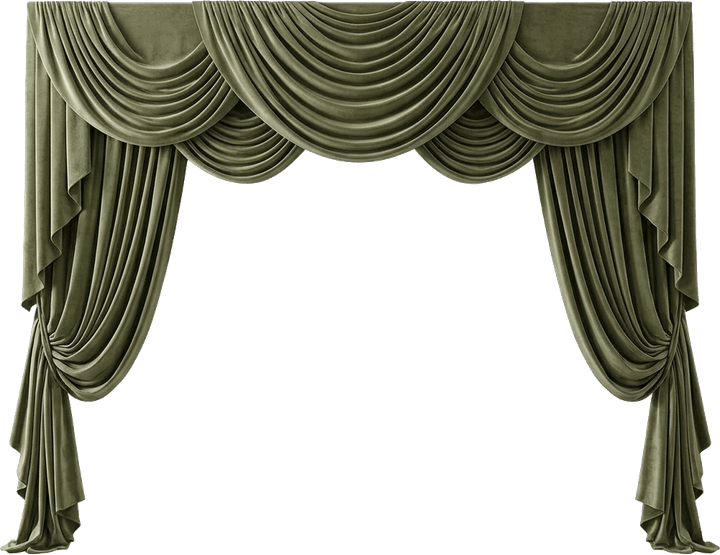
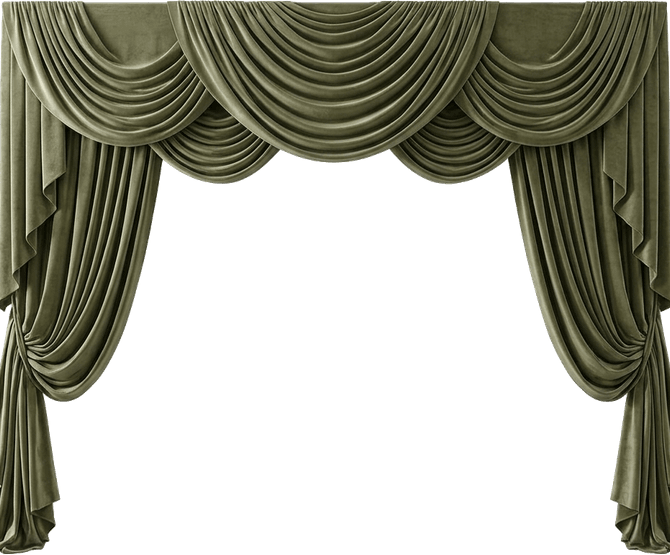
feat: add wedding invitation HTML structure and asset files

diff --git a/src/app/invitation.html b/src/app/invitation.html
@@ -1702,79 +1702,88 @@
 
     <!-- Moodboard Bottom-Right Stage Container -->
     <div
-      class="max-w-4xl mx-auto relative rounded-[28px] overflow-hidden border-2 border-[#D8C37B] shadow-arch bg-[#F7EEE8] px-6 sm:px-12 pt-20 pb-28 sm:pb-36">
+      class="max-w-4xl mx-auto relative rounded-[28px] overflow-hidden border-2 border-[#D8C37B] shadow-2xl bg-[#F7EEE8] px-4 sm:px-10 pt-24 sm:pt-28 pb-36 sm:pb-44">
 
       <!-- Dusty-Pink Silk Curtain Background (Matching Moodboard Bottom-Right Stage) -->
       <div class="pointer-events-none absolute inset-0 z-0" aria-hidden="true">
         <img src="/assets/wedding/drapery/pink-curtain-background.png" alt=""
-          class="w-full h-full object-cover object-center opacity-75 select-none" />
-        <div class="absolute inset-0 bg-gradient-to-b from-[#F7EEE8]/30 via-[#F7EEE8]/70 to-[#F7EEE8]/90"></div>
+          class="w-full h-full object-cover object-center opacity-80 select-none" />
+        <div class="absolute inset-0 bg-gradient-to-b from-[#F7EEE8]/35 via-[#F7EEE8]/65 to-[#F7EEE8]/90"></div>
+        <div class="absolute inset-0 bg-[radial-gradient(ellipse_at_50%_45%,rgba(255,255,255,0.5)_0%,transparent_65%)]"></div>
       </div>
 
-      <!-- Sage-Green Draped Velvet Curtains (Top Valance) -->
-      <img src="/assets/wedding/drapery/sage-curtain-top.png" alt="" aria-hidden="true"
-        class="pointer-events-none absolute top-0 left-0 right-0 w-full h-20 sm:h-28 object-cover object-top z-10 drop-shadow-md select-none" />
+      <!-- Sage-Green Draped Velvet Curtains (Top Valance & Pelmet Canopy) -->
+      <div class="pointer-events-none absolute top-0 -left-1 -right-1 z-10 overflow-hidden" aria-hidden="true">
+        <img src="/assets/wedding/drapery/sage-curtain-top.png" alt=""
+          class="w-full h-28 sm:h-36 md:h-44 object-cover object-top drop-shadow-xl select-none" />
+      </div>
 
       <!-- Floating Petals in Closing Scene -->
       <div class="pointer-events-none absolute inset-0 z-15 overflow-hidden" aria-hidden="true">
         <span
-          class="floating-petal absolute top-16 left-[18%] w-3.5 h-4 rounded-tl-full rounded-br-full bg-[#E7B8C4]/85"></span>
+          class="floating-petal absolute top-20 left-[15%] w-3.5 h-4 rounded-tl-full rounded-br-full bg-[#E7B8C4]/85"></span>
         <span
-          class="floating-petal-slow absolute top-24 right-[18%] w-4 h-3 rounded-tr-full rounded-bl-full bg-[#C98AA3]/75"></span>
+          class="floating-petal-slow absolute top-32 right-[18%] w-4 h-3 rounded-tr-full rounded-bl-full bg-[#C98AA3]/75"></span>
         <span
           class="floating-petal-alt absolute top-1/2 left-[12%] w-3 h-3.5 rounded-tl-full rounded-br-full bg-[#E7B8C4]/75"></span>
+        <span
+          class="floating-petal absolute bottom-36 right-[14%] w-3.5 h-3 rounded-tr-full rounded-bl-full bg-[#C98AA3]/70"></span>
       </div>
 
       <!-- Center Closing Stationery Card -->
-      <div class="relative z-20 max-w-lg mx-auto">
+      <div class="relative z-20 max-w-[420px] sm:max-w-[440px] mx-auto">
 
-        <!-- Large Pink Silk Bow & Peony Crown -->
+        <!-- Refined Pink Silk Bow & Peony Crown -->
         <div data-motion="fadeRise"
-          class="pointer-events-none relative -mb-10 z-30 flex flex-col items-center justify-center" aria-hidden="true">
-          <img src="/assets/wedding/ribbons/silk-bow-large.png" alt=""
-            class="w-32 sm:w-36 h-auto drop-shadow-md select-none" />
+          class="pointer-events-none relative -mb-6 sm:-mb-7 z-30 flex flex-col items-center justify-center" aria-hidden="true">
+          <img src="/assets/wedding/ribbons/silk-bow-small.png" alt=""
+            class="w-24 sm:w-28 h-auto drop-shadow-md select-none" />
           <img src="/assets/wedding/flowers/peony-large-top.png" alt=""
-            class="w-20 sm:w-24 -mt-24 sm:-mt-28 drop-shadow-sm select-none" />
+            class="w-14 sm:w-16 -mt-16 sm:-mt-18 drop-shadow-sm select-none" />
         </div>
 
         <div data-motion="fadeRise" style="--stagger-delay: 80ms;"
-          class="pink-paper-surface border-2 border-[#D8C37B] rounded-2xl px-6 sm:px-10 pt-14 pb-10 shadow-lg relative overflow-hidden">
-          <p class="font-eyebrow text-[10px] text-[#784653] tracking-[0.26em] mb-2">
+          class="pink-paper-surface border-2 border-[#D8C37B] rounded-2xl px-6 sm:px-10 pt-10 sm:pt-12 pb-10 sm:pb-12 shadow-xl relative overflow-hidden">
+          
+          <!-- Inner Delicate Gold Frame Accent -->
+          <div class="pointer-events-none absolute inset-2.5 rounded-xl border border-[#D8C37B]/45 border-dashed" aria-hidden="true"></div>
+
+          <p class="font-eyebrow text-[10px] text-[#784653] tracking-[0.28em] uppercase mb-1">
             SCENE 11 • WITH LOVE &amp; GRATITUDE
           </p>
 
           <!-- "Same love, new chapter." (Exact Moodboard Quote Card Typography) -->
-          <p class="font-script text-4xl sm:text-5xl text-[#784653] leading-tight my-3">
+          <p class="font-script text-3xl sm:text-[38px] text-[#784653] leading-snug my-2">
             Same love, new chapter.
           </p>
 
           <!-- Tiny Heart Divider from Moodboard Quote Card -->
-          <div class="my-4 flex items-center justify-center gap-3" aria-hidden="true">
-            <span class="h-[1px] w-14 bg-[#784653]/35"></span>
+          <div class="my-3 sm:my-4 flex items-center justify-center gap-3" aria-hidden="true">
+            <span class="h-[1px] w-12 bg-[#784653]/35"></span>
             <svg class="w-3.5 h-3.5 text-[#784653]" viewBox="0 0 24 24" fill="currentColor">
               <path
                 d="M12 21.35l-1.45-1.32C5.4 15.36 2 12.28 2 8.5 2 5.42 4.42 3 7.5 3c1.74 0 3.41.81 4.5 2.09C13.09 3.81 14.76 3 16.5 3 19.58 3 22 5.42 22 8.5c0 3.78-3.4 6.86-8.55 11.54L12 21.35z" />
             </svg>
-            <span class="h-[1px] w-14 bg-[#784653]/35"></span>
+            <span class="h-[1px] w-12 bg-[#784653]/35"></span>
           </div>
 
-          <h2 class="font-display text-2xl sm:text-3xl text-[#784653] font-normal tracking-[0.16em] uppercase mt-2">
+          <h2 class="font-display text-2xl sm:text-3xl text-[#784653] font-normal tracking-[0.18em] uppercase mt-1">
             Zahra &amp; Fachri
           </h2>
 
-          <p class="text-xs sm:text-sm text-[#493237]/90 leading-relaxed font-serif mt-3 max-w-sm mx-auto">
+          <p class="text-xs sm:text-sm text-[#493237]/90 leading-relaxed font-serif italic mt-2.5 max-w-xs mx-auto">
             Thank you for being part of our special day.
           </p>
 
-          <p class="font-sans text-[11px] uppercase tracking-[0.24em] text-[#9A7078] mt-4 font-medium">
+          <p class="font-sans text-[10px] sm:text-[11px] uppercase tracking-[0.24em] text-[#9A7078] mt-3.5 font-medium">
             14 . 06 . 2025 • JAKARTA
           </p>
 
           <!-- Back to Top Button -->
-          <div class="mt-6">
+          <div class="mt-6 sm:mt-7 relative z-10">
             <a href="#opening"
-              class="inline-flex items-center gap-2 min-h-[44px] px-5 py-2 rounded-full bg-[#FFF9F5]/90 hover:bg-[#FFF9F5] border border-[#D8C37B] text-[#784653] text-[11px] uppercase tracking-[0.18em] font-medium transition-all shadow-sm">
-              <svg class="w-3.5 h-3.5" viewBox="0 0 24 24" fill="none" stroke="currentColor" stroke-width="2"
+              class="inline-flex items-center gap-2 min-h-[44px] px-6 py-2.5 rounded-full bg-[#FFF9F5]/95 hover:bg-white border border-[#D8C37B] text-[#784653] text-[11px] uppercase tracking-[0.2em] font-medium transition-all shadow-sm hover:shadow-md hover:-translate-y-0.5 active:translate-y-0">
+              <svg class="w-3.5 h-3.5 text-[#784653]" viewBox="0 0 24 24" fill="none" stroke="currentColor" stroke-width="2"
                 aria-hidden="true">
                 <path stroke-linecap="round" stroke-linejoin="round" d="M5 10l7-7m0 0l7 7m-7-7v18" />
               </svg>
@@ -1785,13 +1794,47 @@
 
       </div>
 
-      <!-- Lush Bottom Garden of Peonies & Roses Across Stage Floor (Matching Moodboard Bottom-Right) -->
+      <!-- Antique Gold Taper Candles Flanking Stage Left & Right -->
+      <div class="pointer-events-none absolute bottom-5 sm:bottom-8 left-5 sm:left-12 z-15 flex items-end"
+        aria-hidden="true">
+        <svg class="w-8 sm:w-10 h-22 sm:h-28 overflow-visible drop-shadow-md" viewBox="0 0 60 140" fill="none">
+          <circle cx="20" cy="18" r="14" fill="#F7D794" opacity="0.45" />
+          <circle cx="42" cy="30" r="12" fill="#F7D794" opacity="0.4" />
+          <path class="candle-flame" d="M20 6 C16 14, 15 20, 20 24 C25 20, 24 14, 20 6 Z" fill="#FFF3B0" />
+          <path class="candle-flame-delayed" d="M42 18 C38 26, 37 32, 42 36 C47 32, 46 26, 42 18 Z"
+            fill="#FFF3B0" />
+          <rect x="17" y="24" width="6" height="56" rx="2" fill="#FFF9F5" stroke="#E7D8C9" stroke-width="0.8" />
+          <rect x="39" y="36" width="6" height="48" rx="2" fill="#FFF9F5" stroke="#E7D8C9" stroke-width="0.8" />
+          <path d="M13 80 H27 L23 86 H17 Z M20 86 V135 M12 135 H28" stroke="#D8C37B" stroke-width="2.5"
+            fill="#B89B4C" />
+          <path d="M35 84 H49 L45 90 H39 Z M42 90 V135 M34 135 H50" stroke="#D8C37B" stroke-width="2.5"
+            fill="#B89B4C" />
+        </svg>
+      </div>
+
+      <div class="pointer-events-none absolute bottom-5 sm:bottom-8 right-5 sm:right-12 z-15 flex items-end"
+        aria-hidden="true">
+        <svg class="w-8 sm:w-10 h-22 sm:h-28 overflow-visible drop-shadow-md" viewBox="0 0 60 140" fill="none">
+          <circle cx="40" cy="18" r="14" fill="#F7D794" opacity="0.45" />
+          <circle cx="18" cy="30" r="12" fill="#F7D794" opacity="0.4" />
+          <path class="candle-flame-delayed" d="M40 6 C36 14, 35 20, 40 24 C45 20, 44 14, 40 6 Z" fill="#FFF3B0" />
+          <path class="candle-flame" d="M18 18 C14 26, 13 32, 18 36 C23 32, 22 26, 18 18 Z" fill="#FFF3B0" />
+          <rect x="37" y="24" width="6" height="56" rx="2" fill="#FFF9F5" stroke="#E7D8C9" stroke-width="0.8" />
+          <rect x="15" y="36" width="6" height="48" rx="2" fill="#FFF9F5" stroke="#E7D8C9" stroke-width="0.8" />
+          <path d="M33 80 H47 L43 86 H37 Z M40 86 V135 M32 135 H48" stroke="#D8C37B" stroke-width="2.5"
+            fill="#B89B4C" />
+          <path d="M11 84 H25 L21 90 H15 Z M18 90 V135 M10 135 H26" stroke="#D8C37B" stroke-width="2.5"
+            fill="#B89B4C" />
+        </svg>
+      </div>
+
+      <!-- Lush Continuous Bottom Meadow Across Stage Floor (Matching Moodboard Bottom-Right) -->
       <img src="/assets/wedding/flowers/peony-corner-left.png" alt="" aria-hidden="true"
-        class="pointer-events-none absolute -bottom-6 -left-6 w-48 sm:w-64 z-25 drop-shadow-xl select-none" />
+        class="pointer-events-none absolute -bottom-6 -left-6 sm:-bottom-8 sm:-left-8 w-44 sm:w-60 md:w-68 z-25 drop-shadow-xl select-none" />
       <img src="/assets/wedding/flowers/pink-blossom-cluster.png" alt="" aria-hidden="true"
-        class="pointer-events-none absolute -bottom-8 left-1/2 -translate-x-1/2 w-72 sm:w-96 z-20 opacity-95 drop-shadow-lg select-none" />
+        class="pointer-events-none absolute -bottom-10 sm:-bottom-14 left-1/2 -translate-x-1/2 w-80 sm:w-[480px] md:w-[540px] z-20 opacity-95 drop-shadow-lg select-none" />
       <img src="/assets/wedding/flowers/peony-corner-right.png" alt="" aria-hidden="true"
-        class="pointer-events-none absolute -bottom-6 -right-6 w-48 sm:w-64 z-25 drop-shadow-xl select-none" />
+        class="pointer-events-none absolute -bottom-6 -right-6 sm:-bottom-8 sm:-right-8 w-44 sm:w-60 md:w-68 z-25 drop-shadow-xl select-none" />
 
     </div>
   </footer>
